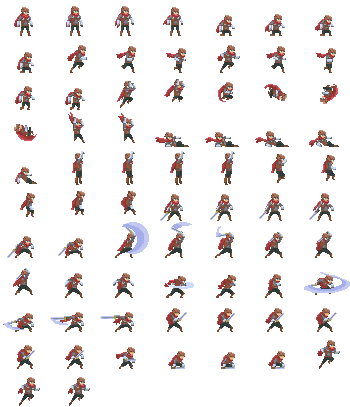
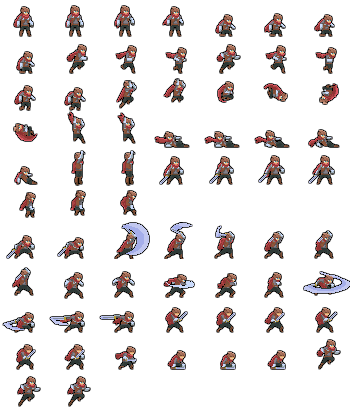
Item drops and inventory system

diff --git a/src/player/player.cpp b/src/player/player.cpp
@@ -68,57 +68,56 @@ auto Player::update(World* wrld, double dt) -> void {
 
         for (int i = 0; i < 50; i++) {
             auto test_vec = pos;
-            test_vec += norm_vec * (float)i / 20.0f;
+            test_vec += norm_vec * (float)i / 25.0f;
             auto t = (int)wrld->get_tile({ test_vec.x, test_vec.z });
             auto l = (int)wrld->get_tile2({ test_vec.x, test_vec.z });
 
             auto tool = inventory->get_slot(invSelect);
             if (tool.itemID == Item::Axe && l == Decorations::Tree) {
                 wrld->set_tile2({ test_vec.x, test_vec.z }, Decorations::None);
-                
-                //TODO: Drop Resources
+                wrld->eman->create_drop(test_vec, Item::Log, 2, 3);
                 break;
             }
             else if (tool.itemID == Item::Pickaxe && t == Tile::Stone) {
                 wrld->set_tile({ test_vec.x, test_vec.z }, Tile::Dirt);
 
-                //TODO: Drop Resources
+                wrld->eman->create_drop(test_vec, Item::Stone, 2, 3);
                 break;
             }
             else if (tool.itemID == Item::Pickaxe && t == Tile::Stone_Coal) {
                 wrld->set_tile({ test_vec.x, test_vec.z }, Tile::Dirt);
 
-                //TODO: Drop Resources
+                wrld->eman->create_drop(test_vec, Item::Coal, 1, 1);
                 break;
             }
             else if (tool.itemID == Item::Shovel && t == Tile::Sand) {
                 wrld->set_tile({ test_vec.x, test_vec.z }, Tile::Dirt);
 
-                //TODO: Drop Resources
+                wrld->eman->create_drop(test_vec, Item::Sand, 1, 2);
                 break;
             }
             else if (tool.itemID == Item::Hoe && t == Tile::Grass) {
                 wrld->set_tile({ test_vec.x, test_vec.z }, Tile::Farmland);
-                //TODO: Drop Resources
 
+                wrld->eman->create_drop(test_vec, Item::Seed, 0, 1);
                 break;
             }
             else if (l == Decorations::Tallgrass) {
                 wrld->set_tile2({ test_vec.x, test_vec.z }, Decorations::None);
-                //TODO: Drop Resources
 
+                wrld->eman->create_drop(test_vec, Item::Seed, 0, 1);
                 break;
             }
             else if (l == Decorations::Flower) {
                 wrld->set_tile2({ test_vec.x, test_vec.z }, Decorations::None);
-                //TODO: Drop Resources
 
+                wrld->eman->create_drop(test_vec, Item::Seed, 0, 1);
                 break;
             }
             else if (l == Decorations::Bush) {
                 wrld->set_tile2({ test_vec.x, test_vec.z }, Decorations::None);
-                
-                //TODO: Drop Resources
+
+                wrld->eman->create_drop(test_vec, Item::Apple, 0, 1);
                 break;
             }
             else if (tool.itemID == Item::Shovel && t == Tile::Grass) {
@@ -163,7 +162,7 @@ auto Player::update(World* wrld, double dt) -> void {
             character->set_animation_range(9, 14);
         }else {
             if(item.itemID == Item::Sword) {
-                character->set_animation_range(38, 41);
+                character->set_animation_range(31, 34);
             } else {
                 character->set_animation_range(0, 3);
             }

diff --git a/src/entity/entityman.cpp b/src/entity/entityman.cpp
@@ -1,23 +1,34 @@
 #include "entityman.hpp"
 #include "../entity/enemy.hpp"
+#include "../entity/drop.hpp"
 #include "../entity/slime.hpp"
 #include "../world/tiles.hpp"
 
 EntityManager::EntityManager(RefPtr<Player> p) {
     player = p;
     entities.clear();
+    drops.clear();
 
     slimeTex = Rendering::TextureManager::get().load_texture("./assets/enemies/slime.png", SC_TEX_FILTER_NEAREST, SC_TEX_FILTER_NEAREST, true, true, true);
+    itemID = Rendering::TextureManager::get().load_texture("./assets/items.png", SC_TEX_FILTER_NEAREST, SC_TEX_FILTER_NEAREST, true, false, true);
 
     for(int i = 0; i < 4; i++){
         slimeSprites[i] = create_refptr<Graphics::G2D::Sprite>(slimeTex, Rendering::Rectangle{ {0, 0}, {32, 32} }, Rendering::Rectangle{ {0.0f + 0.25f * i, 0.0f}, {0.25f, 1.0f} });
     }
 
+	for(int i = 0; i < 64; i++) {
+		items[i] = create_scopeptr<Graphics::G2D::Sprite>(itemID,
+		Rendering::Rectangle{ {0, 0}, {16, 16} },
+		Rendering::Rectangle{ {0.125f * static_cast<float>(i % 8), 0.125f * static_cast<float>((i / 8) + 1) }, {16.0f / 128.0f, -16.0f / 128.0f} });
+	}
+
     ecount = 0;
+    icount = 0;
     mobCap = 6;
 }
 EntityManager::~EntityManager() {
     entities.clear();
+    drops.clear();
 }
 
 
@@ -39,6 +50,23 @@ auto EntityManager::create_random_slime(glm::vec3 pos) -> void {
     ecount++;
 }
 
+
+auto EntityManager::create_drop(glm::vec3 pos, uint8_t item, uint16_t count, uint16_t random) -> void {
+    if (item == 0)
+        return;
+
+    srand(time(NULL) + icount);
+    uint16_t r = rand() % random;
+
+    drops.emplace(
+        icount,
+        create_refptr<ItemDrop>(items[item - 1])
+    );
+    drops[icount]->itemData = Slot{item, static_cast<uint16_t>(count + r)};
+    drops[icount]->pos = pos;
+
+    icount++;
+}
 
 
 auto EntityManager::player_hit() -> void{
@@ -87,10 +115,32 @@ auto EntityManager::update(World* wrld, double dt) -> void {
     for(auto& id : ids) {
         entities.erase(id);
     }
+
+    ids.clear();
+
+    for(auto& [id, e] : drops) {
+        auto diff = e->pos - player->pos;
+        auto len = sqrtf(diff.x * diff.x + diff.z * diff.z);
+
+        e->update_drop(wrld, dt, player->pos);
+
+        if(len < 0.5f) {
+            ids.push_back(id);
+            //TODO: ADD TO INVENTORY
+        }
+    }
+
+    for(auto& id : ids) {
+        drops.erase(id);
+    }
 }
 
 auto EntityManager::draw() -> void {
     for(auto& [id, e] : entities) {
+        e->draw(player->rot);
+    }
+    
+    for(auto& [id, e] : drops) {
         e->draw(player->rot);
     }
 }

diff --git a/src/entity/entityman.hpp b/src/entity/entityman.hpp
@@ -3,6 +3,7 @@
 #include "../player/player.hpp"
 class Player;
 class Enemy;
+class ItemDrop;
 
 class EntityManager final {
     public:
@@ -10,6 +11,7 @@ class EntityManager final {
     ~EntityManager();
 
     auto create_random_slime(glm::vec3 pos) -> void;
+    auto create_drop(glm::vec3 pos, uint8_t item, uint16_t count, uint16_t random) -> void;
 
     auto tick(World* wrld) -> void;
     auto update(World* wrld, double dt) -> void;
@@ -19,11 +21,15 @@ class EntityManager final {
     private:
     RefPtr<Player> player;
     std::map<u32, RefPtr<Enemy>> entities;
+    std::map<u32, RefPtr<ItemDrop>> drops;
     
     u32 slimeTex;
     RefPtr<Graphics::G2D::Sprite> slimeSprites[4];
+    u32 itemID;
+    RefPtr<Graphics::G2D::Sprite> items[64];
 
     u32 ecount;
+    u32 icount;
 
     u32 mobCap;
 };

diff --git a/src/entity/drop.cpp b/src/entity/drop.cpp
@@ -1,0 +1,23 @@
+#include "drop.hpp"
+
+auto ItemDrop::update_drop(World* wrld, double dt, glm::vec3 player_pos) -> void {
+    glm::vec3 diff = player_pos - pos;
+    float len = sqrtf(diff.x * diff.x + diff.z * diff.z);
+
+    if(len > 1.0f)
+        diff /= len;
+
+    if(len < 1.0f)
+        acc = diff * 20.0f;
+
+    Entity::update(wrld, dt);
+}
+
+auto ItemDrop::draw(float rot) -> void {
+    Rendering::RenderContext::get().matrix_clear();
+    Rendering::RenderContext::get().matrix_translate({ (pos.x) * 32.0f, pos.y * 32.0f, pos.z * 32.0f });
+    Rendering::RenderContext::get().matrix_rotate({ 0, rot, 0 });
+    Rendering::RenderContext::get().matrix_translate({ (-0.5f) * 32.0f, 0, 0 });
+
+    sprite->draw();
+}

diff --git a/src/entity/drop.hpp b/src/entity/drop.hpp
@@ -1,0 +1,20 @@
+#pragma once
+#include "entity.hpp"
+#include "../player/inventory.hpp"
+#include <Graphics/2D/Sprite.hpp>
+
+using namespace Stardust_Celeste;
+
+class ItemDrop : public Entity {
+    public:
+    ItemDrop(RefPtr<Graphics::G2D::Sprite> model) { immortal = true; sprite = model; };
+    virtual ~ItemDrop() = default;
+
+    virtual auto update_drop(World* wrld, double dt, glm::vec3 player_pos) -> void;
+    auto draw(float rot) -> void;
+
+    Slot itemData;
+
+    protected:
+    RefPtr<Graphics::G2D::Sprite> sprite;
+};

diff --git a/src/player/inventory.hpp b/src/player/inventory.hpp
@@ -12,11 +12,19 @@ namespace Item {
     const uint8_t Wheat = 6;
     const uint8_t Bread = 7;
     const uint8_t Apple = 8;
+    const uint8_t Stone = 9;
+    const uint8_t Coal = 10;
+    const uint8_t Log = 11;
+    const uint8_t Acorn = 12;
+    const uint8_t Seed = 13;
+    const uint8_t Sand = 14;
+
+    const uint8_t GoldenApple = 16;
 }
 
 struct Slot {
     uint8_t itemID;
-    uint8_t count;
+    uint16_t count;
 };
 
 class Inventory final {
